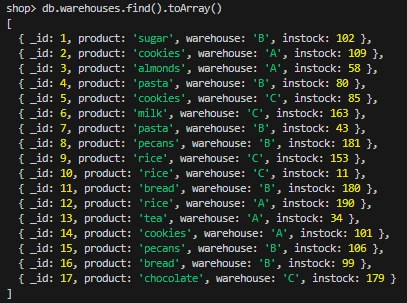
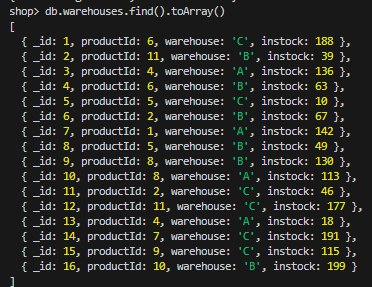
fix: fixed name to id

diff --git a/hw_2/README.md b/hw_2/README.md
@@ -10,8 +10,8 @@
 
 ## Схема данных
 - products: { _id, name, price }
-- warehouses: { _id, product, warehouse, instock }
-- Связь: warehouses.product = products.name
+- warehouses: { _id, productId, warehouse, instock }
+- Связь: warehouses.productId = products._id
 
 ---
 
@@ -43,7 +43,7 @@ let codes = ["A","B","C"];
 for (let wid = 1, limit = rnd(10, 20); wid <= limit; wid++) {
   db.warehouses.insertOne({
     _id: wid,
-    product: items[rnd(0, items.length - 1)],
+    productId: rnd(1, items.length),
     warehouse: codes[rnd(0, codes.length - 1)],
     instock: rnd(0, 200)
   });
@@ -61,15 +61,15 @@ for (let wid = 1, limit = rnd(10, 20); wid <= limit; wid++) {
 db.products.aggregate([
   { $lookup: {
       from: "warehouses",
-      localField: "name",
-      foreignField: "product",
+      localField: "_id",
+      foreignField: "productId",
       as: "wh"
   }},
   { $set: {
       totalInstock: { $sum: "$wh.instock" }
   }},
-  { $project: { _id: 0, name: 1, totalInstock: 1 } },
-  { $sort: { name: 1 } }
+  { $project: { _id: 0, id: "$_id", totalInstock: 1 } },
+  { $sort: { id: 1 } }
 ]);
 ~~~
 ### Скрин результата
@@ -79,11 +79,11 @@ db.products.aggregate([
 ## Map Reduce
 ~~~javascript
 
-// Получаем название и количество товара
+// Получаем id и количество товара
 function mapStock() {
-  if (this.product != null) emit(this.product, this.instock);
+  if (this.productId != null) emit(this.productId, this.instock);
 }
-// Сумма количества товаров по названию
+// Сумма количества товаров по id
 function reduceStock(key, values) {
   return Array.sum(values);
 }
